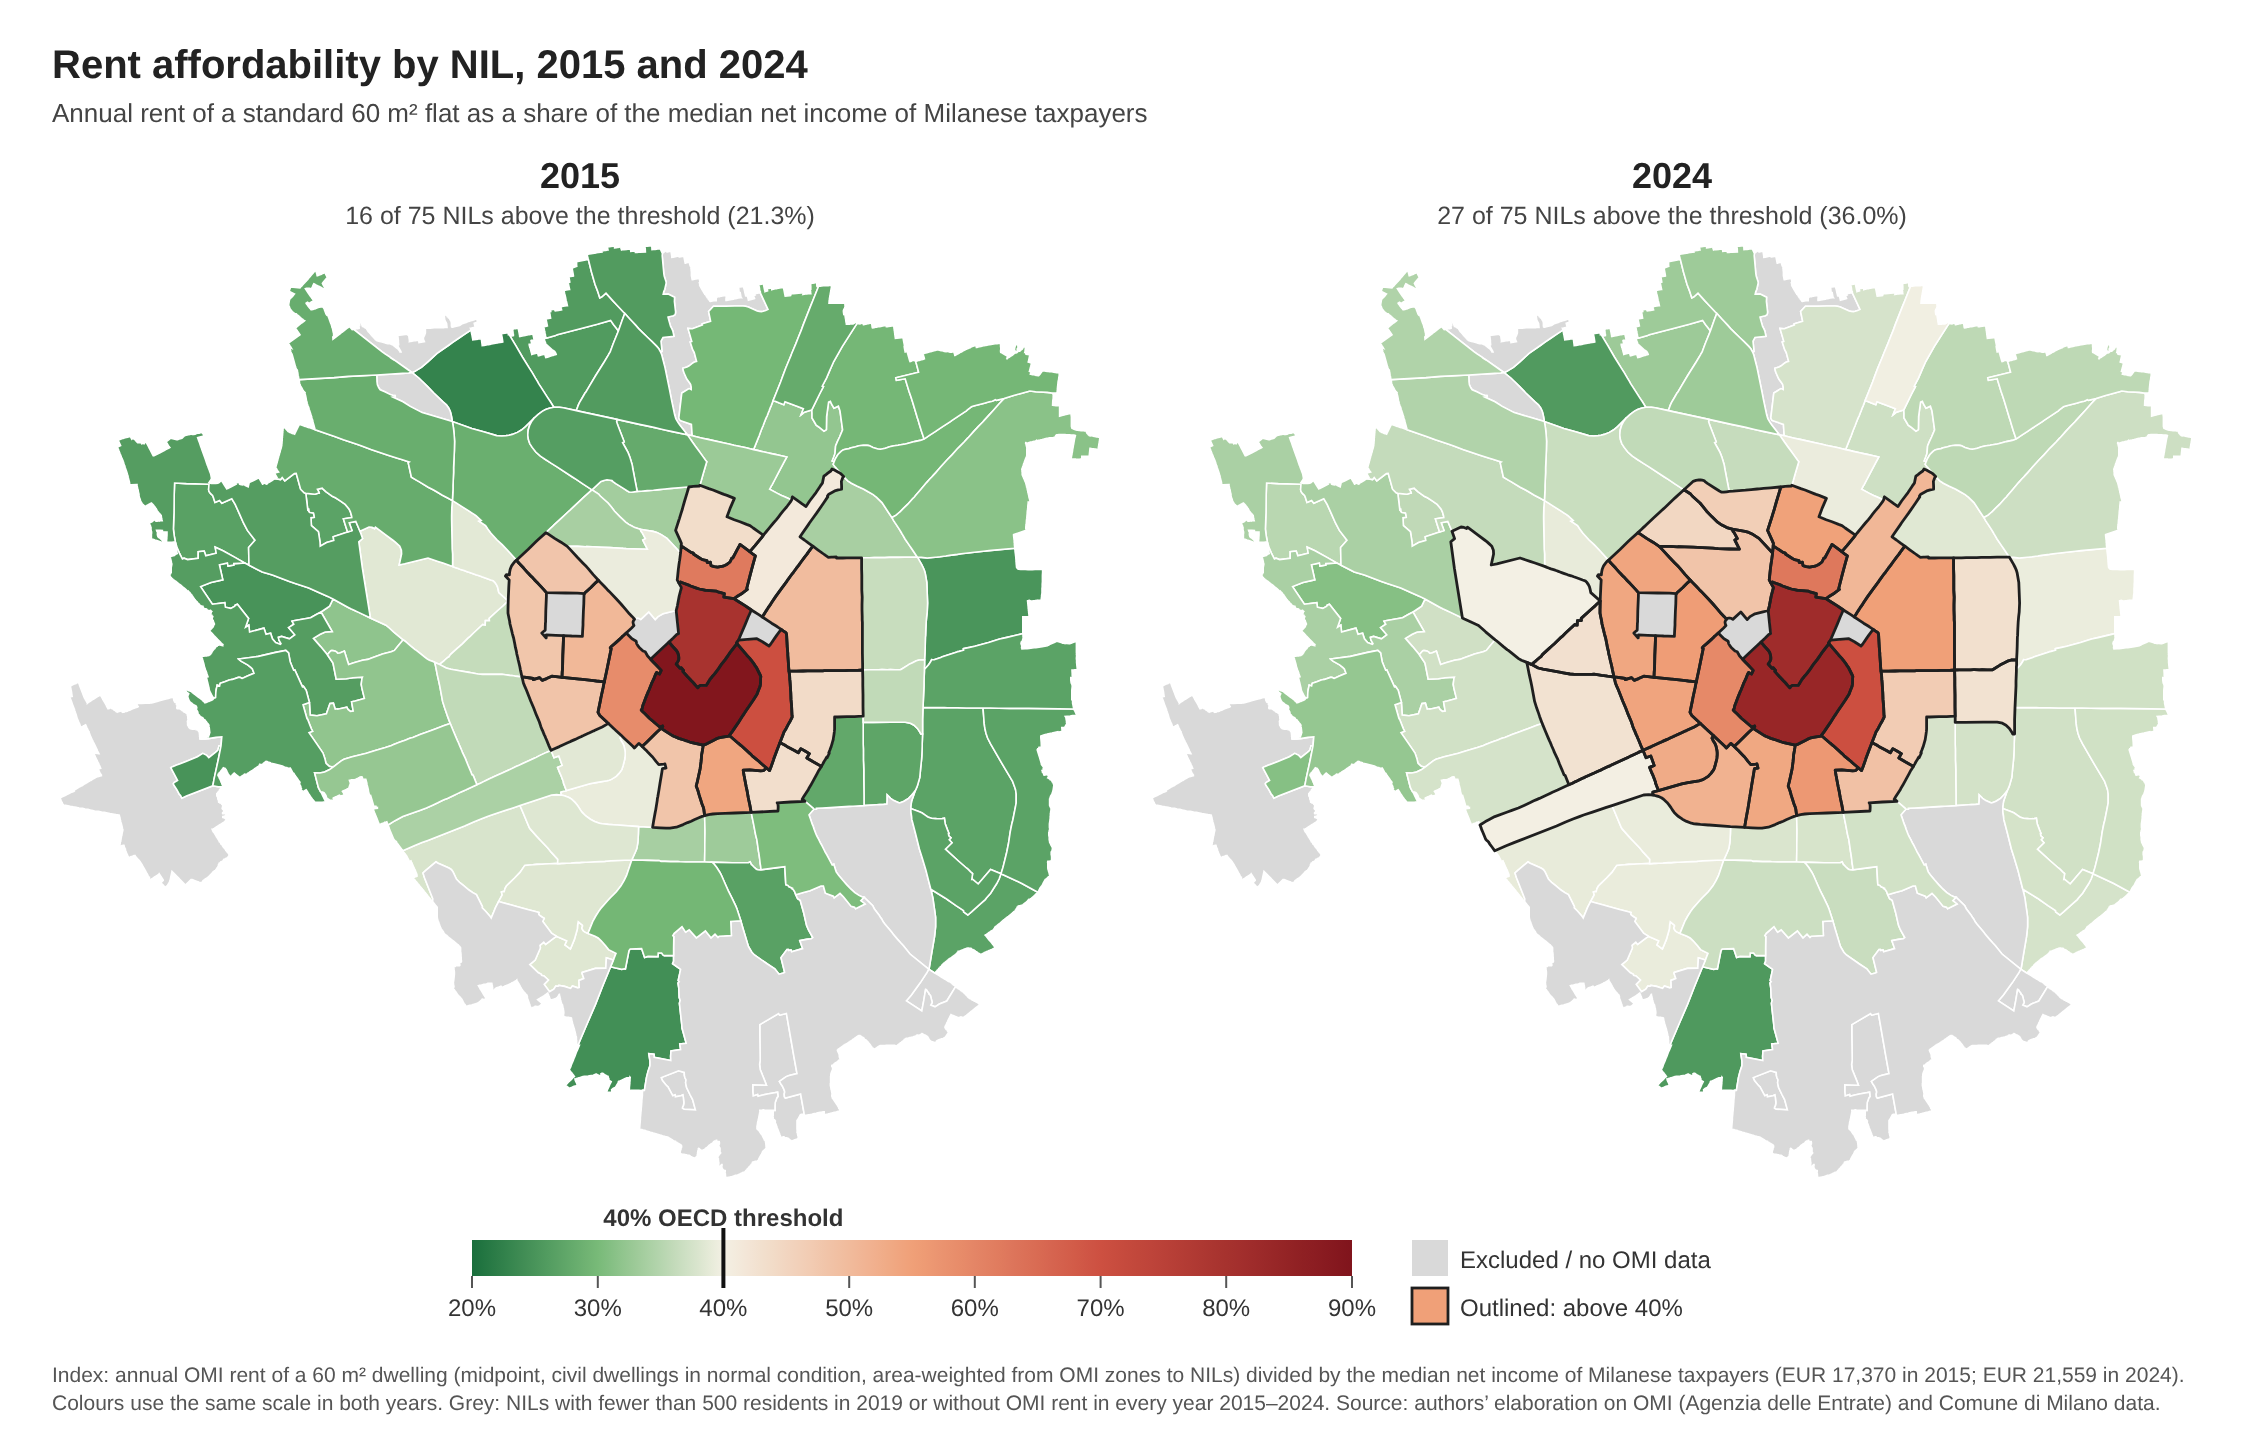
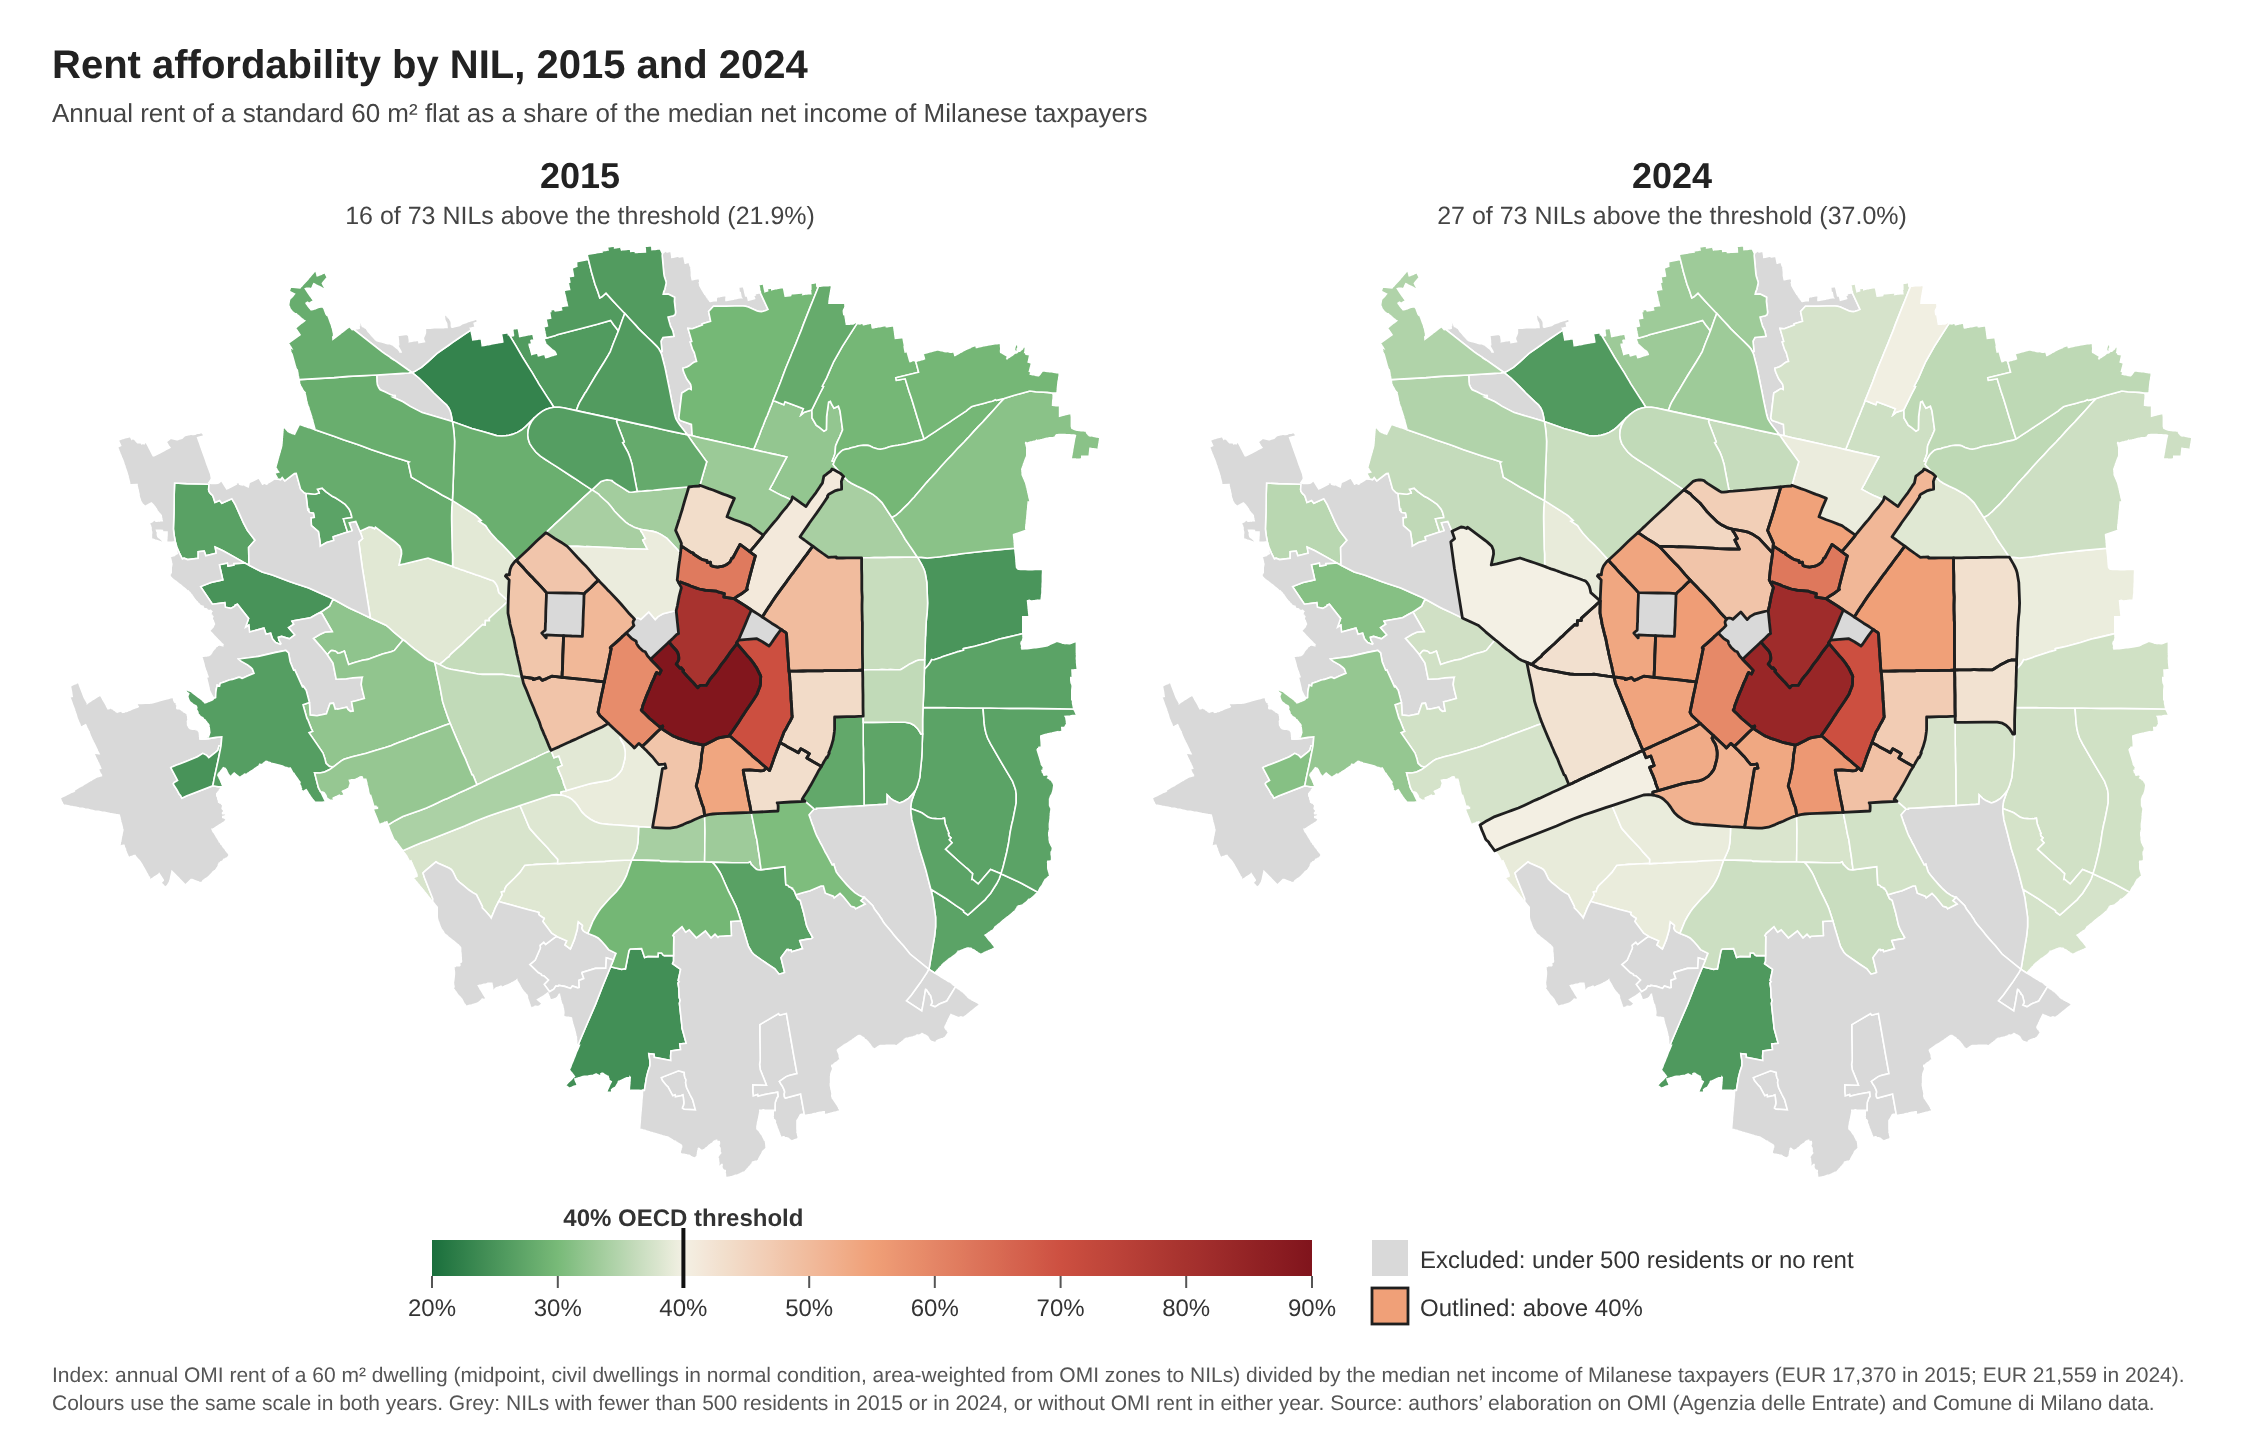
Mappa 2015-2024: grigi i NIL sotto 500 residenti o senza affitto nel 2015 o nel 2024
Campione della mappa di 73 NIL (escono Cantalupa e Parco Bosco in citta',
sotto 500 residenti nel 2015); legenda e nota aggiornate; dati di main f6ba063.

Claude-Session: https://claude.ai/code/session_01R3TEWBGZDLyP2FCiwKZ6Wx

diff --git a/code/aux_maps_affordability.py b/code/aux_maps_affordability.py
@@ -10,9 +10,12 @@ ROOT = os.path.dirname(os.path.dirname(os.path.abspath(__file__)))
 OUT = sys.argv[1]
 
 a = pd.read_stata(f'{ROOT}/data/work/aff_nil_year.dta')
+d205 = pd.read_stata(f'{ROOT}/data/work/ds205_nil_year.dta')
 w = a[a.year.between(2015, 2024)]
-cnt = w.groupby('nil').A60.count()
-panel = set(cnt[cnt == 10].index.astype(int))
+# Campione della mappa: affitto osservato nel 2015 e nel 2024 e almeno 500 residenti in entrambi gli anni
+has = lambda yr: set(w[(w.year == yr) & w.A60.notna()].nil.astype(int))
+big = lambda yr: set(d205[(d205.year == yr) & (d205['pop'] >= 500)].nil.astype(int))
+panel = has(2015) & has(2024) & big(2015) & big(2024)
 val = {yr: {int(r.nil): float(r.A60) for r in w[(w.year == yr) & w.nil.isin(panel)].itertuples()} for yr in (2015, 2024)}
 share = {yr: (sum(v > 0.40 for v in val[yr].values()), len(val[yr])) for yr in val}
 
@@ -77,14 +80,14 @@ LW = 440
 def lx(v): return 20 + (v - 0.20) / 0.70 * LW
 grad = ''.join(f'<stop offset="{(v-0.20)/0.70:.4f}" stop-color="{color(v)}"/>' for v in [0.20 + i * 0.01 for i in range(71)])
 ticks = ''.join(f'<line x1="{lx(v):.1f}" x2="{lx(v):.1f}" y1="34" y2="40" stroke="#555"/><text x="{lx(v):.1f}" y="54" text-anchor="middle">{int(v*100)}%</text>' for v in (0.2, 0.3, 0.4, 0.5, 0.6, 0.7, 0.8, 0.9))
-legend = f'''<svg width="{LW+260}" height="66" xmlns="http://www.w3.org/2000/svg" font-family="Helvetica, Arial, sans-serif" font-size="12" fill="#333">
+legend = f'''<svg width="{LW+300}" height="66" xmlns="http://www.w3.org/2000/svg" font-family="Helvetica, Arial, sans-serif" font-size="12" fill="#333">
 <defs><linearGradient id="g">{grad}</linearGradient></defs>
 <rect x="20" y="16" width="{LW}" height="18" fill="url(#g)"/>
 {ticks}
 <line x1="{lx(0.40):.1f}" x2="{lx(0.40):.1f}" y1="10" y2="40" stroke="#111" stroke-width="2"/>
 <text x="{lx(0.40):.1f}" y="9" text-anchor="middle" font-weight="bold">40% OECD threshold</text>
 <rect x="{LW+50}" y="16" width="18" height="18" fill="{NODATA}"/>
-<text x="{LW+74}" y="30">Excluded / no OMI data</text>
+<text x="{LW+74}" y="30">Excluded: under 500 residents or no rent</text>
 <rect x="{LW+50}" y="40" width="18" height="18" fill="#f0a078" stroke="#1f1f1f" stroke-width="1.4"/>
 <text x="{LW+74}" y="54">Outlined: above 40%</text>
 </svg>'''
@@ -103,7 +106,7 @@ h1{font-size:20px;margin:0 0 4px}.lead{font-size:13px;color:#444;margin:0 0 14px
 
 NOTE = ('Index: annual OMI rent of a 60 m&sup2; dwelling (midpoint, civil dwellings in normal condition, area-weighted from OMI zones to NILs) '
         'divided by the median net income of Milanese taxpayers (EUR 17,370 in 2015; EUR 21,559 in 2024). Colours use the same scale in both years. '
-        'Grey: NILs with fewer than 500 residents in 2019 or without OMI rent in every year 2015&ndash;2024. '
+        'Grey: NILs with fewer than 500 residents in 2015 or in 2024, or without OMI rent in either year. '
         'Source: authors&rsquo; elaboration on OMI (Agenzia delle Entrate) and Comune di Milano data.')
 
 def page(body):
